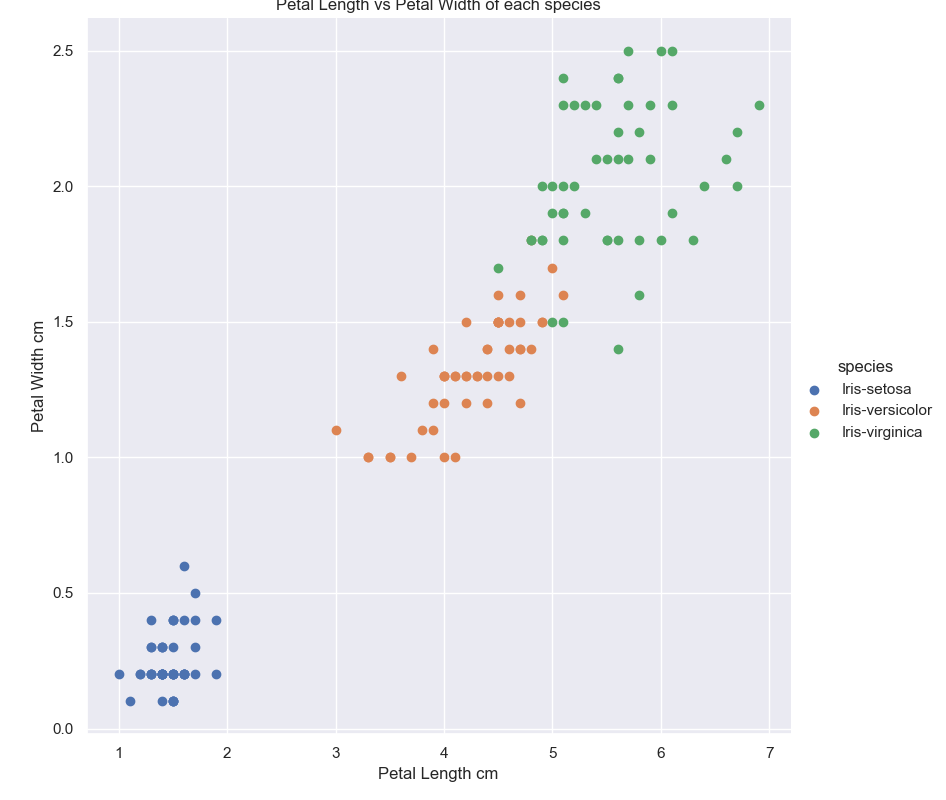
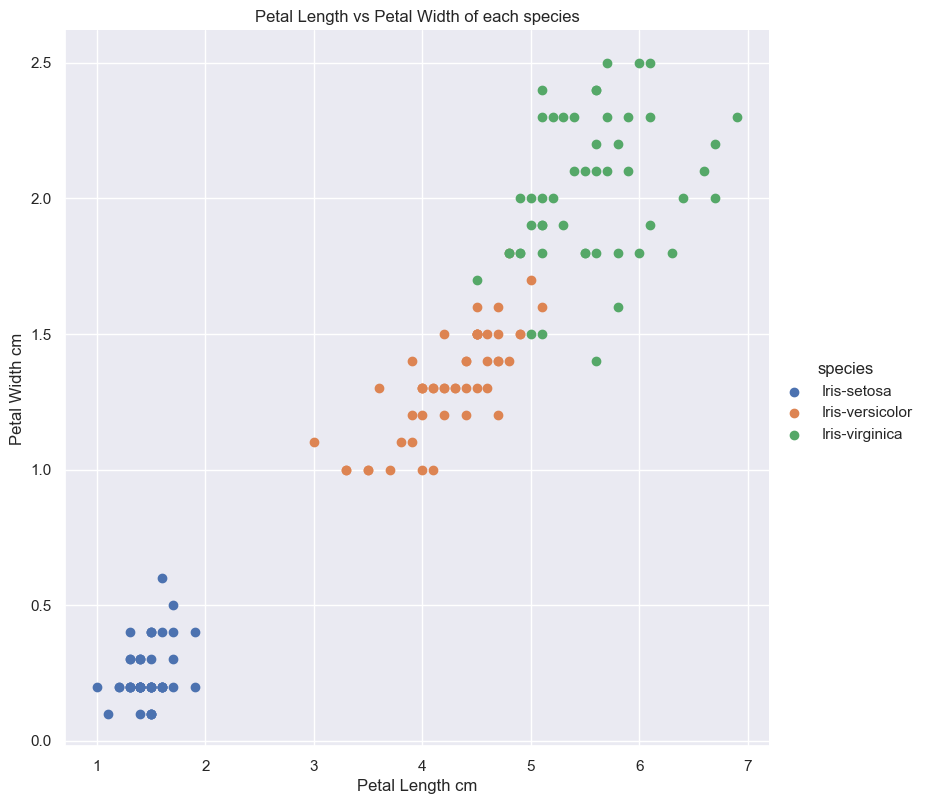
Made space for title in plots

diff --git a/dataVis.py b/dataVis.py
@@ -25,7 +25,7 @@ def species():
     plt.xlabel("Species")
     plt.ylabel("Count")
     #plt.show()
-    plt.savefig('Data Visualisation/species-plot.png')
+    plt.savefig('Data Visualisation/species-plot.png',  bbox_inches='tight')
     return
 
 # Now lets look at sepal length and sepal width
@@ -42,7 +42,7 @@ def sepal_relation():
     plt.xlabel("Sepal Width cm")
     plt.ylabel("Sepal Length cm")
     #plt.show()
-    plt.savefig('Data Visualisation/sepal_length_width.png')
+    plt.savefig('Data Visualisation/sepal_length_width.png',  bbox_inches='tight')
     return
 
 
@@ -56,7 +56,7 @@ def petal_relation():
     plt.xlabel("Petal Length cm")
     plt.ylabel("Petal Width cm")
     #plt.show()
-    plt.savefig('Data Visualisation/petal_length_width.png')
+    plt.savefig('Data Visualisation/petal_length_width.png', bbox_inches='tight')
     return
 
 # Petal Length and Sepal Length across the three species:
@@ -71,7 +71,7 @@ def petal_sepal_length_relation():
                     ).set(title="Petal Length vs Sepal Length of each species", y=1.08)
     plt.xlabel("Sepal Length cm")
     plt.ylabel("Petal Length cm")
-    plt.savefig('Data Visualisation/petal_sepal_length.png')
+    plt.savefig('Data Visualisation/petal_sepal_length.png',  bbox_inches='tight')
     return
 
 def petal_sepal_width_relation():
@@ -85,7 +85,7 @@ def petal_sepal_width_relation():
     plt.xlabel("Sepal Width cm")
     plt.ylabel("Petal Width cm")
     #plt.show()
-    plt.savefig('Data Visualisation/petal_sepal_width.png')
+    plt.savefig('Data Visualisation/petal_sepal_width.png',  bbox_inches='tight')
     return
 
 
